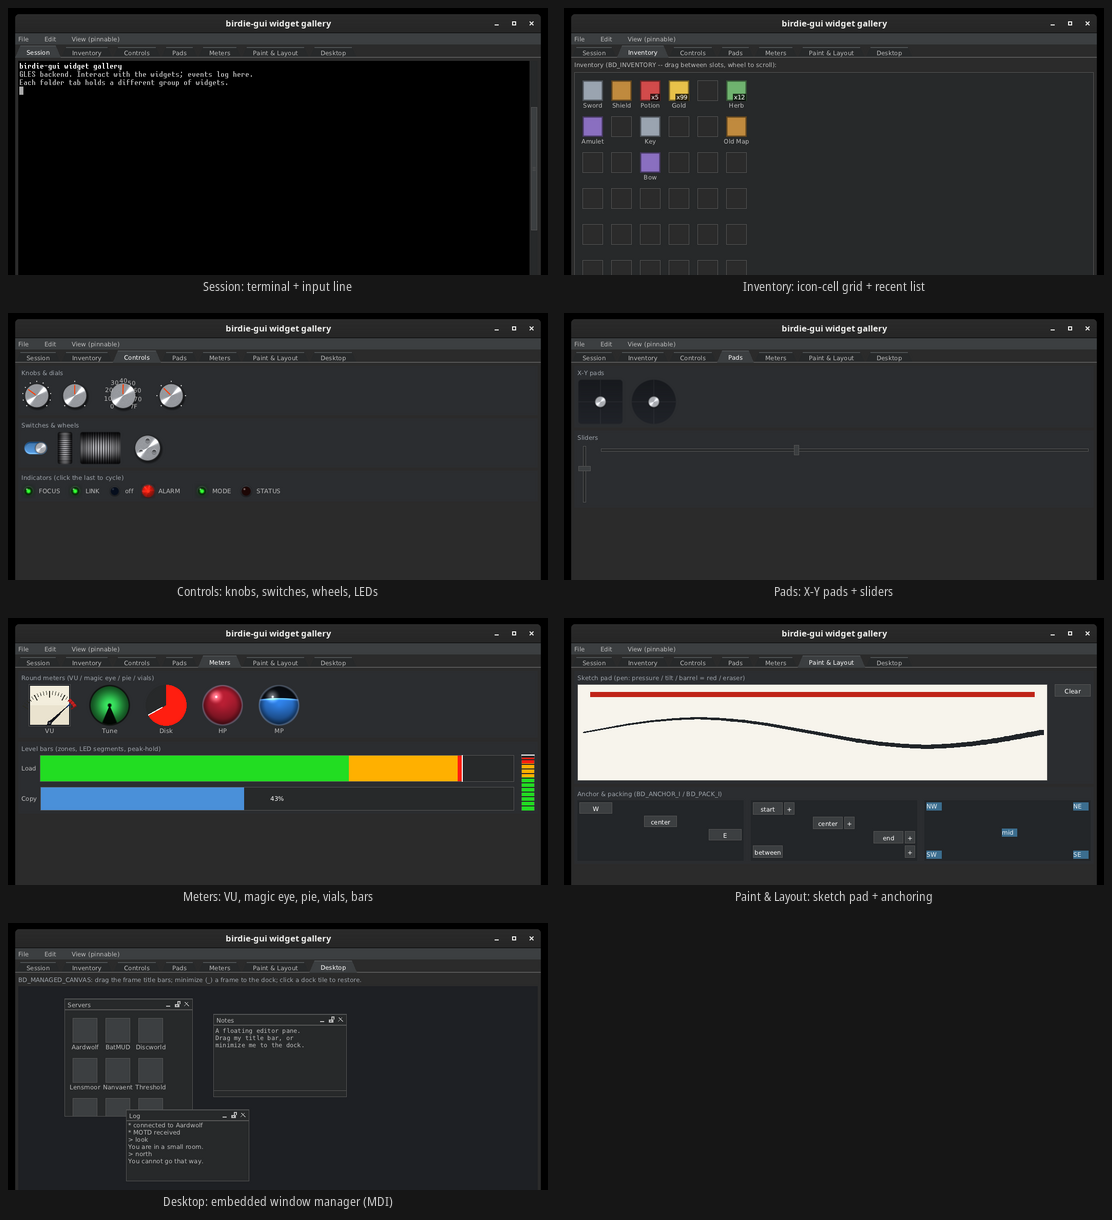
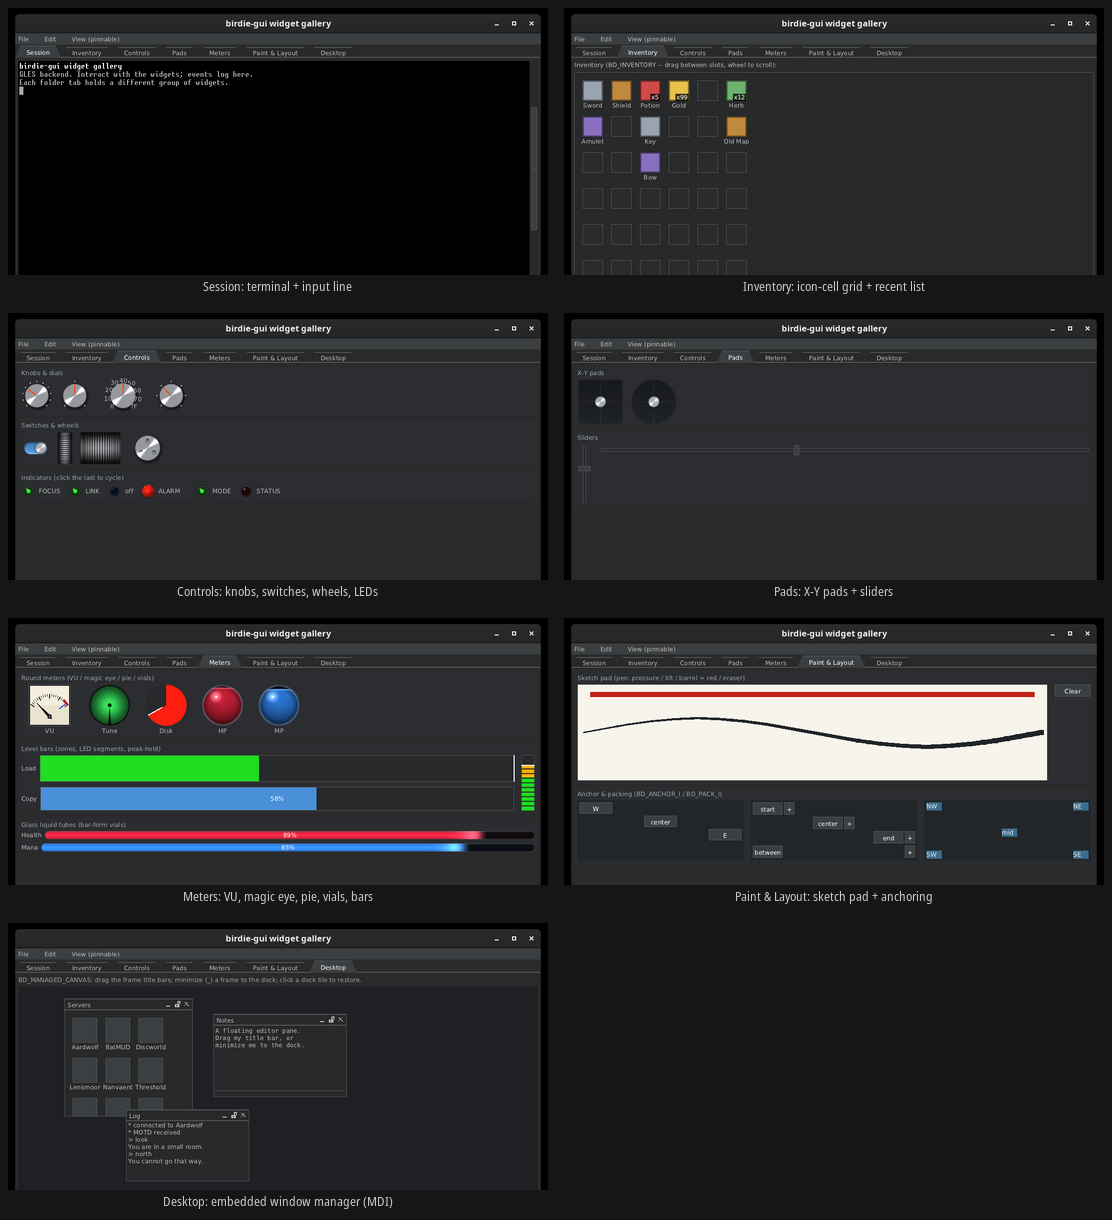
gui: fix BD_METER_VU arc overflowing the face panel
The needle pivot sat too low (cy = 0.92h) with too large a radius
(R = 0.82*(h-2*in)), so the ~115-degree scale arc overshot the cream
face: the minor ticks spilled off the left edge and the red danger
band plus the blue peak marker spilled off the right, past the panel
border.

Size R from the width instead, so the widest marks (at +-SPAN/2)
stay inside the face: R = (w/2 - in - 1) / sin(A), capped to the
height. Center the needle sweep vertically (cy = h/2 + R/2), hub
below center with the tip reach above. All marks now sit within the
cream panel.

Regenerate the gallery screenshot's Meters tile to show the fix.

Changed region(s): [[0.0306, 0.5607, 0.4892, 0.7164], [0.0306, 0.5607, 0.0612, 0.5918]]

diff --git a/src/birdie-gui/bd_widget_meter.c b/src/birdie-gui/bd_widget_meter.c
@@ -360,10 +360,17 @@ render_vu(struct meter *m, int x, int y, int w, int h)
 	bd_draw_rect(x + in, y + in, w - 2*in, (h - 2*in) / 2, 0xF3EEDDFFu);
 	bd_draw_rect_lines(x, y, w, h, th->border);
 
-	float cx = x + w * 0.5f;
-	float cy = y + h * 0.92f;                 /* pivot low on the face */
-	float R  = (h - 2*in) * 0.82f;
 	const float SPAN = 2.0f;                  /* ~115 deg total sweep */
+	const float A = SPAN * 0.5f;              /* half sweep from vertical */
+	/* Size the arc so the widest marks (at +-A) stay inside the cream face,
+	 * then center the needle sweep (hub at cy, tip reach at cy-R) vertically.
+	 * The old fixed R/pivot overshot the face and spilled ticks/red band
+	 * past the panel edges. */
+	float R = ((w * 0.5f) - in - 1.0f) / sinf(A);   /* width-limited */
+	float Rv = (h - 2*in) - 2.0f;                    /* height-limited */
+	if (R > Rv) R = Rv;
+	float cx = x + w * 0.5f;
+	float cy = y + h * 0.5f + R * 0.5f;       /* center the sweep vertically */
 	float redStart = (m->nbrk > 0) ? m->brk[m->nbrk - 1] : 0.85f;
 
 	/* red danger band, a filled arc annulus from redStart..1 */